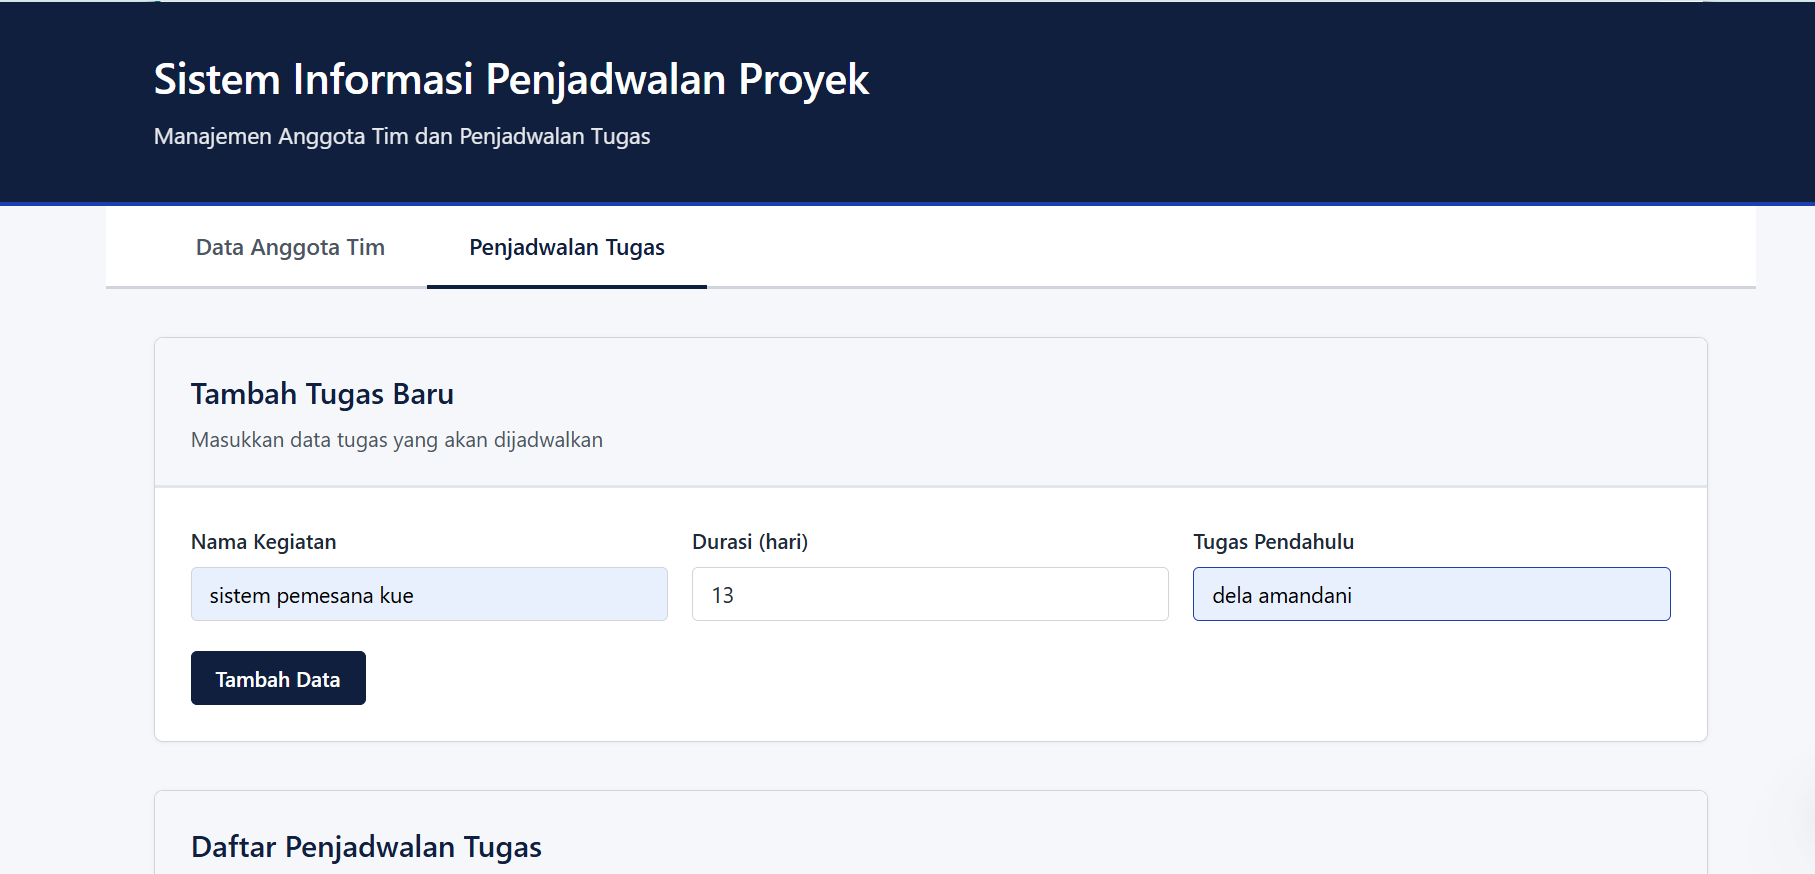
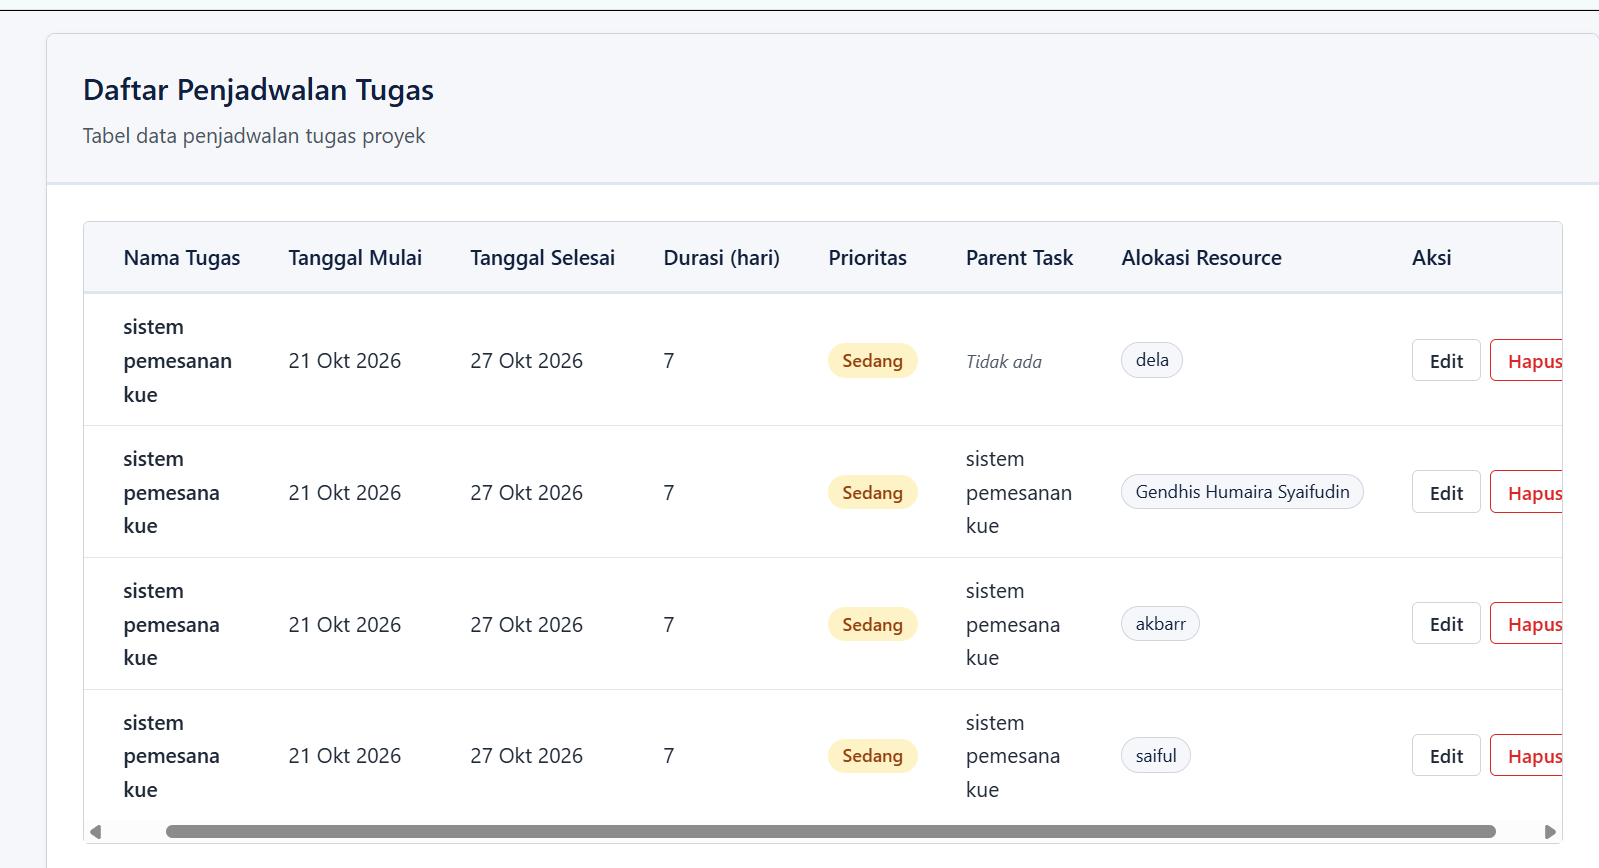
Perbarui screenshot dokumentasi UI dan daftar fitur di README

diff --git a/README.md b/README.md
@@ -2,12 +2,15 @@
 
 ## Penjelasan Singkat Fitur Aplikasi
 
-Aplikasi web ini merupakan Sistem Informasi Penjadwalan Proyek sederhana yang dirancang untuk membantu pengelolaan anggota tim dan penjadwalan tugas proyek. 
+Aplikasi web ini merupakan Sistem Informasi Penjadwalan Proyek yang dirancang untuk membantu pengelolaan anggota tim dan penjadwalan tugas proyek secara menyeluruh, mulai dari perencanaan, visualisasi jadwal, hingga analisis jalur kritis proyek.
 
 Fitur utama yang tersedia:
 
 - **CRUD Data Anggota Tim** - Pengelolaan data anggota tim meliputi Nama, No HP, Email, Posisi (PM, Analis, Programmer, Tester), dan Gaji.
-- **CRUD Data Penjadwalan Tugas** - Pengelolaan data penjadwalan tugas meliputi Nama Kegiatan, Durasi (hari), dan Tugas Pendahulu.
+- **CRUD Data Penjadwalan Tugas** - Pengelolaan data tugas yang detail: Nama Tugas, Tanggal Mulai, Tanggal Selesai (otomatis), Durasi (hari), Prioritas (Rendah/Sedang/Tinggi), Parent Task (dependensi antar tugas), dan Alokasi Resource (anggota tim).
+- **Bagan Gantt** - Visualisasi jadwal tugas secara kronologis berdasarkan durasi dan dependensi, dengan warna batang sesuai tingkat prioritas.
+- **Analisis Jalur Kritis (CPM)** - Perhitungan Critical Path Method: ES, EF, LS, LF, dan Slack setiap tugas, durasi total proyek, serta penandaan tugas kritis.
+- **Export / Import Data** - Ekspor seluruh data proyek (anggota tim dan tugas) ke berkas JSON, serta impor kembali untuk memuat ulang data.
 
 Aplikasi dibangun dengan tampilan yang minimalis, rapi, dan berstandar akademis menggunakan palet warna profesional (navy blue, putih, dan abu-abu terang).
 
